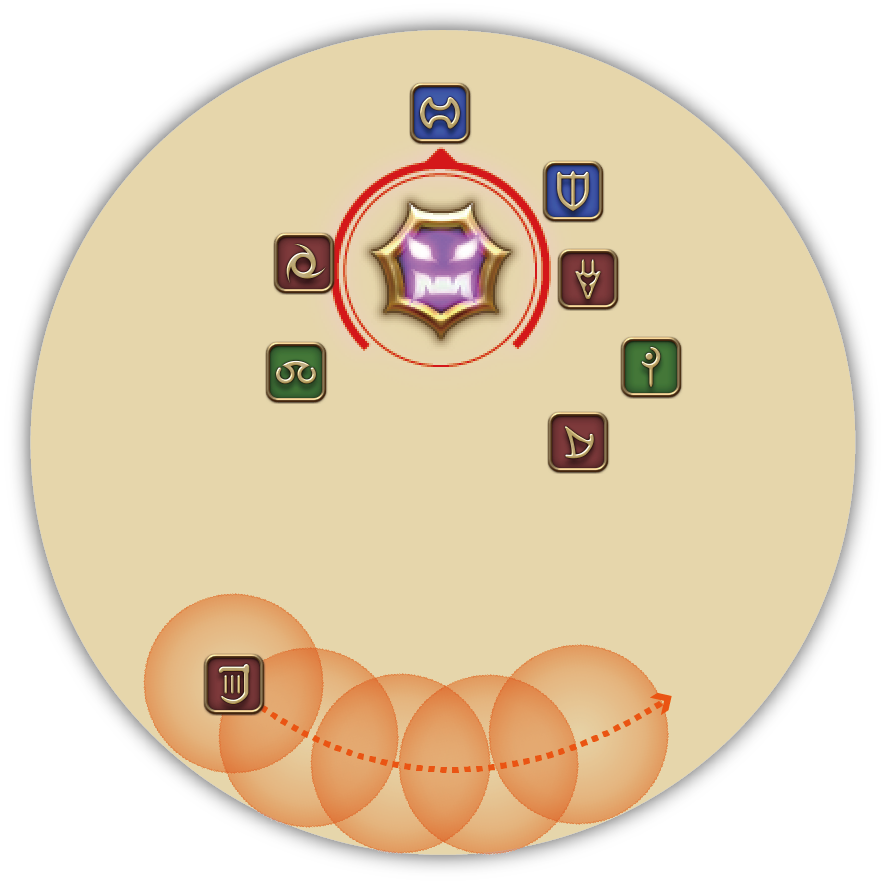
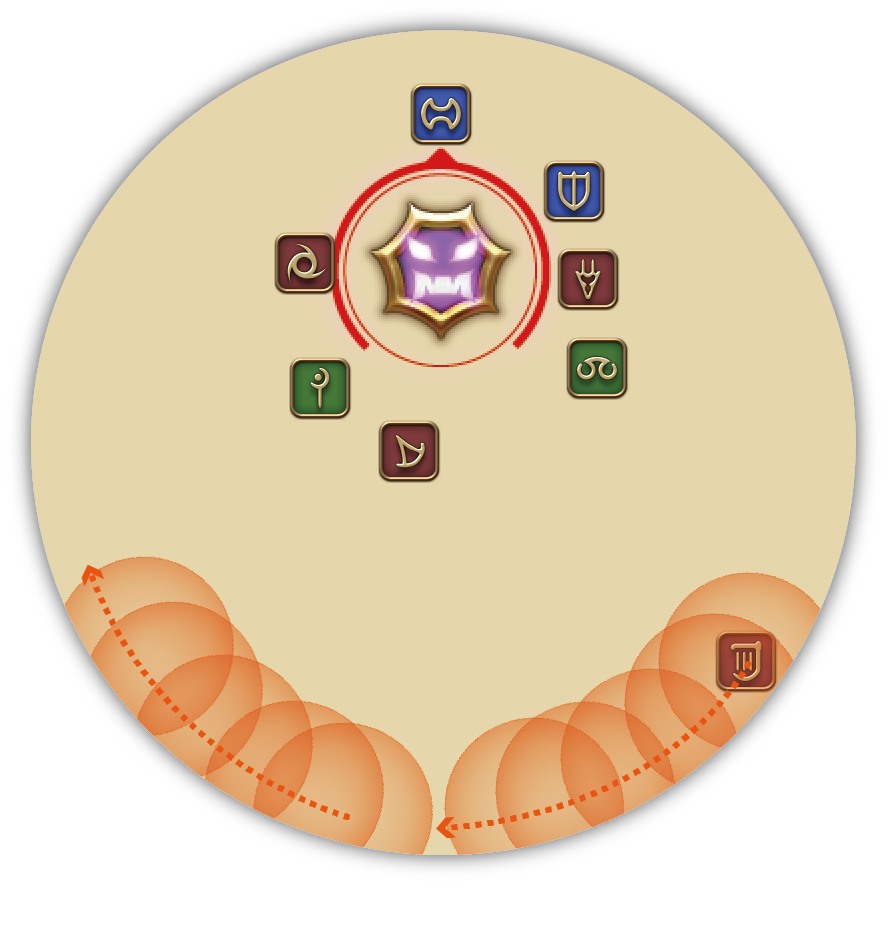
ver 1.3

diff --git a/bahamut/P1.html b/bahamut/P1.html
@@ -187,19 +187,24 @@
 									<li>开场顺劈</li>
 									<li>火球+旋风→分散诱导+集合分摊</li>
 									<li>第一次死刑+顺劈</li>
-									<li>火球+旋风（可能压掉）</li>
+									<li>火球+旋风→开始循环直至74%</li>
 									<br>
-									<li>五连喷+黑球+五连喷→诱导（注意后补）</li>
+									<li>五连喷（诱导）</li>
+									<li>黑球+五连喷（诱导+注意后补）</li>
 									<li>第二次死刑</li>
-									<li>黑球+旋风→分散诱导后点名玩家进入拘束装置引爆黑球</li>
+									<li>黑球+旋风→先诱导旋风再引爆黑球</li>
 									<li>顺劈</li>
+									<li>五连喷（诱导）→开始循环直至44%</li>
 									<br>
-									<li>五连喷+黑球</li>
-									<li>五连喷+火球</li>
+									<li>五连喷（诱导）+黑球</li>
+									<li>五连喷（随机）+火球</li>
 									<li>第三次死刑+顺劈</li>
 									<li>黑球+旋风</li>
 									<li>顺劈</li>
-									<li>五连喷+黑球+五连喷+火球→循环</li>
+									<li>五连喷（诱导）+黑球→开始循环至狂暴</li>
+									<li>五连喷（随机）+火球</li>
+									<li>第四次死刑+顺劈</li>
+									<li>以太失控（狂暴）</li>
 									<br>
 									<hr />
 									<h3>核心机制-『拘束装置』</h3>
@@ -208,18 +213,19 @@
 											<img src="img/hover-sign.png" alt="">
 											&nbsp;&nbsp;&nbsp;拘束装置
 										</a>
-										。玩家站在拘束装置上，会获得
+										(由于技能后摇可能会延迟掉落)。玩家站在拘束装置上，会获得
 										<a class="status-area" name="Neurolink">
 											<img src="img/status/Neurolink.png" alt="">
 											&nbsp;&nbsp;&nbsp;拘束
 										</a>
-										状态效果。为了方便处理特定机制，需要将拘束装置大致呈三角形摆放在场地中央，并且两两之间需要间隔一定的距离。为了方便后续攻略的说明，战斗开始前的场地标点如下:
+										效果。为了方便处理特定机制，需要将拘束装置呈等边三角形摆放在场地中央。为了方便后续攻略的说明，战斗开始前的场地标点如下:
 									</p>
 									<div class="figure aligncenter">
 										<img src="img/p1-map.png" alt="">
 										<div>
-											<li>※A点:场地正北 1点:场地中央 全程保持不变</li>
-											<li>※B→C→D点为P1-『拘束装置』放置顺序</li>
+											<li class="text-align-center">※A点:场地正北 1点:场地中央 保持不变</li>
+											<li class="text-align-center">※B→C→D点为P1-『拘束装置』放置顺序</li>
+											<li class="text-align-center">※2点：1点和A点之间，往1点靠近，为P3用点</li>
 										</div>
 									</div>
 									<hr />
@@ -268,6 +274,19 @@
 									<hr />
 									<h3>第一个『拘束装置』掉落后(74%～44%)</h3>
 									<h4>新增技能</h4>
+									<li>液体地狱：诱导机制。BOSS对远处的玩家使用五连喷，每次造成2k左右的伤害并在玩家脚下留下一个
+										<a  class="img-hover-area" name="firecircle">
+											<img src="img/hover-sign.png" alt="">
+											&nbsp;&nbsp;&nbsp;火圈
+										</a>
+										。踩在火圈里会获得
+										<a  class="status-area" name="Burns">
+											<img src="img/status/Burns.png" alt="">
+											&nbsp;&nbsp;&nbsp;火伤
+										</a>
+										效果而被直接秒杀。机制的关键在于「超过一定距离」——如果所有玩家都与BOSS较近，则BOSS将会随机选择目标。如果有多个玩家距离较远，则这几名玩家都有可能成为BOSS的目标。这里推荐1名玩家诱导+1名玩家候补。
+									<p class="attention-part">※治疗注意BOSS在发动「液体地狱」时仍然会对MT使用「普攻」。</p>
+									</li>
 									<li>魔力炼成：诱导机制。一名DPS将会被点名
 										<a  class="img-hover-area" name="manatriangle">
 											<img src="img/hover-sign.png" alt="">
@@ -278,26 +297,31 @@
 											<img src="img/hover-sign.png" alt="">
 											&nbsp;&nbsp;&nbsp;魔力压缩体
 										</a>
-										，并缓慢加速朝被定名的玩家移动。该玩家需要站在『拘束装置』内引爆黑球——黑球会爆炸产生中等范围的AOE，对『拘束装置』内玩家造成少量伤害，秒杀范围内的其他玩家。同时，被点名玩家将会被附加
+											，并缓慢加速朝被定名的玩家移动。该玩家需要进入『拘束装置』内获得
+											<a class="status-area" name="Neurolink">
+												<img src="img/status/Neurolink.png" alt="">
+												&nbsp;&nbsp;&nbsp;拘束
+											</a>
+											效果引爆黑球——黑球会爆炸产生中等范围的AOE，对带有
+											<a class="status-area" name="Neurolink">
+												<img src="img/status/Neurolink.png" alt="">
+												&nbsp;&nbsp;&nbsp;拘束
+											</a>的玩家只造成少量伤害(4k～5k)，范围内的其他玩家则会被秒杀。同时，受到伤害的玩家将会被附加
 										<a  class="status-area" name="ManaHypersensitivity">
 											<img src="img/status/ManaHypersensitivity.png" alt="">
 											&nbsp;&nbsp;&nbsp;魔力过敏症
 										</a>
-										效果——使得下一次碰到黑球时会被直接秒杀。
+										——再次受到黑球伤害时将被直接秒杀。
+										<p class="attention-part">
+											※由于服务器判定问题，即使离开拘束装置
+											<a class="status-area" name="Neurolink">
+												<img src="img/status/Neurolink.png" alt="">
+											&nbsp;&nbsp;&nbsp;拘束
+											</a>
+											效果也不会立刻消失，因此可以在黑球快接近时提前离开拘束装置引爆，减少输出降低的时间。并且在应对复数机制（同时点名黑球+五连喷）时，可以减少踩中火圈的几率。(请根据自身水平谨慎尝试)
+										</p>
 									</li>
-									<li>液体地狱：诱导机制。BOSS对离自身较远（超过一定距离）的玩家使用五连喷，每次造成2k左右的伤害并在玩家脚下留下一个
-										<a  class="img-hover-area" name="firecircle">
-											<img src="img/hover-sign.png" alt="">
-											&nbsp;&nbsp;&nbsp;火圈
-										</a>
-										火圈。踩在火圈里会获得
-										<a  class="status-area" name="Burns">
-											<img src="img/status/Burns.png" alt="">
-											&nbsp;&nbsp;&nbsp;火伤
-										</a>
-										效果而被直接秒杀。如果所有玩家都距离BOSS较近，则BOSS将会随机选择目标。如果有多个玩家同时距离较远，则这几名玩家都会成为BOSS的目标。因此通常由1～2名玩家在远处诱导。
-									<p class="attention-part">※治疗注意BOSS在发动「液体地狱」时仍然会对MT使用「普攻」。</p><br>
-									</li>
+									<br>
 									<h4>阶段时间轴</h4>
 									<div id="p1.2-timeline-area" class="timeline-area"></div>
 									<h4>阶段详解</h4>
@@ -310,9 +334,7 @@
 											<li class="text-align-center">※诱导玩家注意不要将火圈覆盖到『拘束装置』</li>
 										</div>
 									</div>
-									<p class="attention-part">※按照上文旋风的站位，进入第二阶段时远程物理和学者刚好会在最远处。</p><br>
 									<p>接着是组合技「魔力炼成+液体地狱」，被标记的DPS到『拘束装置』内引爆黑球，其余玩家注意远离黑球的爆炸范围。</p>
-									<p class="attention-part">※由于进入『拘束装置』会大幅降低玩家造成的伤害，在熟练后玩家可以在黑球快接近时再进入。</p>
 									<p class="attention-part">※如果诱导玩家被点名黑球，候补玩家记得引导「液体地狱」。</p><br>
 									<p>然后是「死刑」，主副坦记得开好减伤，及时换坦。</p><br>
 									<p>死刑后是组合技「魔力炼成+旋风」——注意，由于黑球从刷新到玩家引爆的过程中BOSS会发动「旋风」，玩家需要在『拘束装置』外先行诱导旋风出现后再进入（参考下图）。</p><br>
@@ -326,21 +348,23 @@
 									<hr />
 									<h3>第二个『拘束装置』掉落后(44%～0%)</h3>
 									<h4>技能改动</h4>
-									<li>魔力炼成*2：诱导机制。这个阶段将会点名2名DPS，同时生成2个黑球。由于黑球是AOE范围伤害并且带有<a  class="status-area"  name="ManaHypersensitivity">
+									<li>液体地狱：诱导+随机机制。这个阶段液体地狱总是成对出现——第一次为诱导机制，同上一阶段。第二次为随机机制，BOSS将会随机瞄准一名玩家，与距离无关。</li>
+									<li>魔力炼成*2：诱导机制。这个阶段将会点名2名DPS，同时生成2个黑球。由于黑球是AOE范围伤害并且会附加<a  class="status-area"  name="ManaHypersensitivity">
 											<img src="img/status/ManaHypersensitivity.png" alt="">
 											&nbsp;&nbsp;&nbsp;魔力过敏症
 										</a>
-										效果，因此2名DPS需要一人站在一个『拘束装置』内，并且这两个『拘束装置』需要间隔足够的距离防止黑球AOE互相覆盖，这也是为什么『拘束装置』需要呈三角摆放的原因。</li>
-									<li>液体地狱：诱导机制。这个阶段只会瞄准一名除MT以外的玩家，与距离无关。</li>
+										效果，因此2名DPS需要一人站在一个『拘束装置』内，同时这两个『拘束装置』需要间隔足够的距离防止黑球AOE互相覆盖，这也是为什么『拘束装置』需要呈三角摆放的原因之一。</li>
+									
 									<h4>阶段时间轴</h4>
 									<div id="p1.3-timeline-area" class="timeline-area"></div>
 									<h4>阶段详解</h4>
-									<p>同上一阶段相同，『拘束装置』掉落后，MT立刻将BOSS拉到下一个位置，同时所有人调整自己的站位——BOSS在不久会发动「液体地狱」。</p>
-									<p class="attention-part">※注意此阶段「液体地狱」是随机点名任意一名玩家。</p><br>
-									<p>然后是「魔力炼成x2」，2名DPS一人在一个『拘束装置』内引爆。</p>
-									<p class="attention-part">※按照攻略中的站位分配，如果黑球点名同侧DPS，推荐远程去另一侧引爆。</p><br>
-									<p>接着是组合技「液体地狱+火球」，被点名液体地狱的玩家注意边引导边朝集合点靠近，第五下喷结束后立刻就是火球分摊，但不要让火圈覆盖了集合点。也可以选择被点名「液体地狱」的人不参与分摊，但由于这名玩家同时有可能被点名「火球」，因此不推荐这样处理，队内请自行斟酌。另外，推荐MT也参与分摊。</p>
-									<p class="attention-part">※治疗注意，如果MT不参与分摊，无减伤下7人分摊的火球平均伤害在3w8左右。被点名「液体地狱」的人还会额外受到2k*5≈1w的伤害。</p>
+									<p>同上一阶段相同，『拘束装置』掉落后，MT立刻将BOSS拉到下一个位置.所有人调整自己的站位——BOSS在不久会发动「液体地狱」组合x2。</p>
+									<br>
+									<p>首先是「液体地狱（诱导）+魔力炼成x2」。液体地狱（诱导）同上一阶段处理方法相同，黑球则由2名DPS一人在一个『拘束装置』内引爆。。</p>
+									<p class="attention-part">※顺位安排：P1的旋风站位已经将左右两侧分别安排了1近战1远程，如果黑球点名同侧DPS，则远程去另一侧引爆。</p><br>
+									<p>接着是「液体地狱（随机）+火球」。被点名液体地狱的玩家边引导火圈边朝集合点靠近，第五下喷结束后立刻就是火球分摊，但不要让火圈覆盖了集合点。也可以选择被点名「液体地狱」的人不参与分摊，但由于这名玩家同时有可能被点名「火球」，因此不推荐这样处理，队内请自行斟酌。另外，推荐MT也参与分摊降低伤害。</p>
+									<p class="attention-part">※之前被点名黑球的玩家有可能刚好被点名液体地狱，引爆黑球的同时注意躲避火圈。</p>
+									<p class="attention-part">※治疗注意，如果MT不参与分摊，无减伤下7人分摊的火球平均伤害在3w7左右。被点名「液体地狱」的人还会额外受到2k*5≈1w的伤害。</p>
 									<p class="attention-part">※如果近战被点名「液体地狱」可以参考下图路线引导（非唯一）。</p><br>
 									<div class="figure aligncenter">
 										<img src="img/p1-liquidhell-melee.png" alt="">
@@ -350,7 +374,9 @@
 									</div>
 									<p>组合技后是「死刑+垂直下落」，同P1阶段处理即可。这一次死刑时坦克的退避仍在CD，注意控制好仇恨（如果此时忍者有烟雾弹，影渡等技能也可使用）。</p><br>
 									<p>接着是组合技「魔力炼成x2+旋风」，除了这次是双黑球外与上一阶段处理方法相同。</p><br>
-									<p>最后是一次「垂直下落」，结束后进入循环——液体地狱→魔力炼成x2→组合技「液体地狱+火球」。一般队伍能在这一次组合技后结束战斗（2:50秒左右），随后双塔尼亚将会飞走，标志P1结束。否则3:00时双塔尼亚将会变得不可选中并读条「以太狂暴」团灭队伍。</p><br>
+									<p>最后是一次「垂直下落」，结束后进入循环——</p>
+									<p>「液体地狱（诱导）+黑球」→「液体地狱（诱导）+火球」→第四次死刑+顺劈→黑球+旋风。</p><br>
+									<p>一般队伍能在2:50秒左右结束战斗，随后双塔尼亚将会飞走，标志P1结束。否则3:00时双塔尼亚将会变得不可选中并读条「以太狂暴」团灭队伍。</p><br>
 									<hr />
 									<h3>p1完整时间轴</h3>
 									<div id="p1-timeline-area" class="timeline-area"></div>

diff --git a/bahamut/js/status-database.js b/bahamut/js/status-database.js
@@ -19,10 +19,11 @@ var statusDB = {
     "ManaHypersensitivity": {
 		"name": "魔力过敏症",   
 		"src": "img\\status\\ManaHypersensitivity.png", 
-		"info": "增加魔力压缩体爆炸时“魔力飞散”造成的伤害(即死)"
+		"info": "增加魔力压缩体爆炸时“魔力飞散”造成的伤害(即死)",
+		"duration": 16
 	}
 }
-
+lincthu.github.io/bahamut/img/hover/manaball.png
 var hoverDB = {
 	"map": {
 		"src": "img\\hover\\map.png"

diff --git a/bahamut/css/content.css b/bahamut/css/content.css
@@ -27,8 +27,8 @@
 	position: relative;
     float: left;
     overflow: hidden;
-    width: 25px;
-    height: 25px;
+    width: 1.5rem;
+    height: 1.5rem;
 }
 
 .info-header-name{
